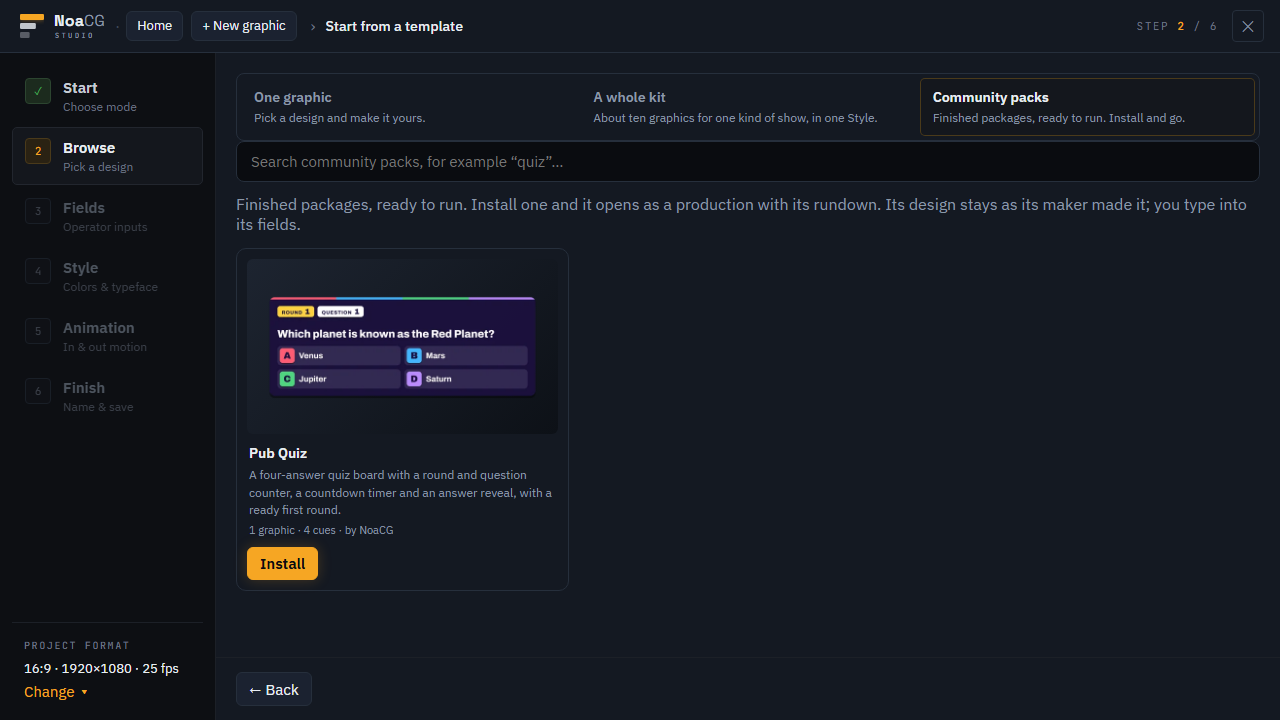
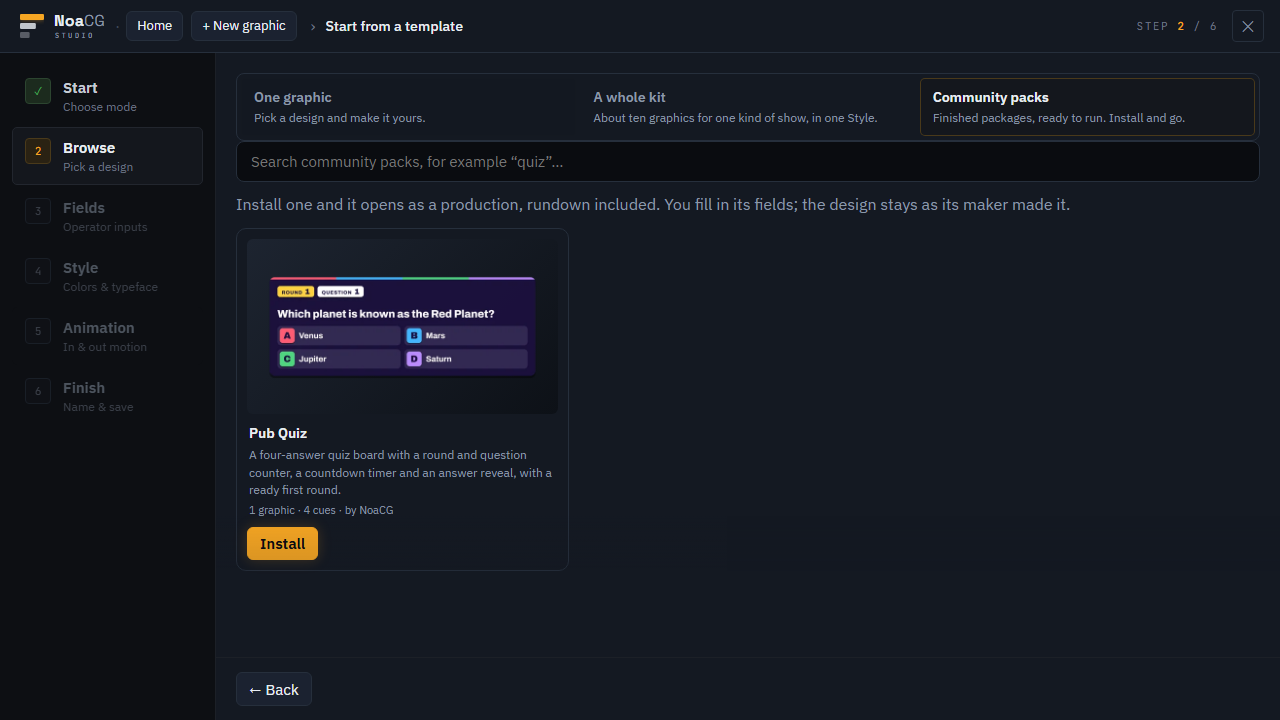
Tighten the Community packs shelf after review
On the shelf the rail's format read-back and the live preview pane now
stand down, since a pack carries its own frame and is not the design
picked earlier. An empty shelf says so instead of reporting a search
miss, and the shelf index is read once per page with a plain-language
failure message.

The pack builder now refuses a font reference that is neither in the
graphic's fonts/ folder nor a bundled face, checks the shelf's author
and preview rules before writing, and regenerates the community output
folder so a removed pack leaves no served file. Each manifest is read
once.

The wizard contract rule for Browse's top control now names the third
answer and what stands down on the shelf.

diff --git a/src/components/wizard/steps/CommunityPacks.tsx b/src/components/wizard/steps/CommunityPacks.tsx
@@ -41,21 +41,33 @@ interface Props {
 
 const plural = (n: number, word: string) => `${n} ${word}${n === 1 ? '' : 's'}`;
 
+/** The shelf index, read once per page: switching Browse's answer back and forth remounts this
+ *  component, and the list is static for the life of the deployment. A failed read is not kept,
+ *  so the next visit tries again. */
+let shelfRead: Promise<CommunityPackEntry[]> | null = null;
+function readShelf(): Promise<CommunityPackEntry[]> {
+  shelfRead ??= fetch(`${SHELF}index.json`)
+    .then((res) => (res.ok ? (res.json() as Promise<{ packs?: CommunityPackEntry[] }>) : Promise.reject(new Error())))
+    .then((index) => index.packs ?? [])
+    .catch(() => {
+      shelfRead = null;
+      throw new Error('The community shelf could not be read. Check the connection and open it again.');
+    });
+  return shelfRead;
+}
+
 export default function CommunityPacks({ query, onClearQuery, onInstalled }: Props) {
   const [packs, setPacks] = useState<CommunityPackEntry[] | null>(null);
   const [loadError, setLoadError] = useState<string | null>(null);
   const [busy, setBusy] = useState<string | null>(null);
-  const [errors, setErrors] = useState<Record<string, string>>({});
+  // Install is single-flight (every button disables while one runs), so one refusal at a time.
+  const [refusal, setRefusal] = useState<{ id: string; message: string } | null>(null);
 
   useEffect(() => {
     let live = true;
-    fetch(`${SHELF}index.json`)
-      .then((res) => {
-        if (!res.ok) throw new Error(`The shelf could not be read (${res.status}).`);
-        return res.json() as Promise<{ packs?: CommunityPackEntry[] }>;
-      })
-      .then((index) => live && setPacks(index.packs ?? []))
-      .catch((error: unknown) => live && setLoadError(error instanceof Error ? error.message : String(error)));
+    readShelf()
+      .then((list) => live && setPacks(list))
+      .catch((error: Error) => live && setLoadError(error.message));
     return () => {
       live = false;
     };
@@ -72,11 +84,7 @@ export default function CommunityPacks({ query, onClearQuery, onInstalled }: Pro
 
   const install = async (entry: CommunityPackEntry) => {
     setBusy(entry.id);
-    setErrors((prev) => {
-      const next = { ...prev };
-      delete next[entry.id];
-      return next;
-    });
+    setRefusal(null);
     try {
       const res = await fetch(`${SHELF}${entry.file}`);
       if (!res.ok) throw new Error(`The pack could not be downloaded (${res.status}).`);
@@ -86,7 +94,7 @@ export default function CommunityPacks({ query, onClearQuery, onInstalled }: Pro
       trackEvent('activation', 'community-pack');
       onInstalled(show);
     } catch (error) {
-      setErrors((prev) => ({ ...prev, [entry.id]: error instanceof Error ? error.message : String(error) }));
+      setRefusal({ id: entry.id, message: error instanceof Error ? error.message : String(error) });
     } finally {
       setBusy(null);
     }
@@ -100,7 +108,8 @@ export default function CommunityPacks({ query, onClearQuery, onInstalled }: Pro
       </p>
       {loadError && <p className="wz-community-error" role="alert">{loadError}</p>}
       {!packs && !loadError && <p className="hint">Loading the shelf…</p>}
-      {packs && shown.length === 0 && (
+      {packs && packs.length === 0 && <p className="hint">No packs on the shelf yet.</p>}
+      {packs && packs.length > 0 && shown.length === 0 && (
         <div className="wz-browse-empty">
           <p className="hint">No pack matches “{query.trim()}”.</p>
           <button type="button" className="wz-filter" onClick={onClearQuery}>✕ Clear the search</button>
@@ -133,7 +142,7 @@ export default function CommunityPacks({ query, onClearQuery, onInstalled }: Pro
             >
               {busy === p.id ? 'Installing…' : 'Install'}
             </button>
-            {errors[p.id] && <p className="wz-community-error" role="alert">{errors[p.id]}</p>}
+            {refusal?.id === p.id && <p className="wz-community-error" role="alert">{refusal.message}</p>}
           </li>
         ))}
       </ul>

diff --git a/src/components/wizard/steps/BrowseStep.tsx b/src/components/wizard/steps/BrowseStep.tsx
@@ -79,6 +79,19 @@ interface Props {
  *  Templates, Kits, Community packs - docs/work-specs/community-packs/spec.md). */
 export type BuildMode = 'one' | 'kit' | 'community';
 
+/** What the one search box above the branch searches, said per answer. */
+const SEARCH_COPY: Record<BuildMode, { placeholder: string; label: string }> = {
+  one: {
+    placeholder: 'Search all templates, for example “name graphic”, “countdown”, “church verse”…',
+    label: 'Search templates',
+  },
+  kit: {
+    placeholder: 'Search kits and graphics, for example “church”, “esports”, “ticker”…',
+    label: 'Search kits and graphics',
+  },
+  community: { placeholder: 'Search community packs, for example “quiz”…', label: 'Search community packs' },
+};
+
 type SortMode = 'relevance' | 'simplest' | 'name' | 'name-desc';
 
 /**
@@ -514,18 +527,10 @@ export default function BrowseStep({
       <input
         className="wz-browse-search"
         type="search"
-        placeholder={
-          buildMode === 'kit'
-            ? 'Search kits and graphics, for example “church”, “esports”, “ticker”…'
-            : buildMode === 'community'
-            ? 'Search community packs, for example “quiz”…'
-            : 'Search all templates, for example “name graphic”, “countdown”, “church verse”…'
-        }
+        placeholder={SEARCH_COPY[buildMode].placeholder}
         value={filters.query}
         onChange={(e) => set({ query: e.target.value })}
-        aria-label={
-          buildMode === 'kit' ? 'Search kits and graphics' : buildMode === 'community' ? 'Search community packs' : 'Search templates'
-        }
+        aria-label={SEARCH_COPY[buildMode].label}
       />
 
       {/* Project format - the graphic's own frame, NOT a facet: nothing here narrows the

diff --git a/src/components/wizard/CreationWizard.tsx b/src/components/wizard/CreationWizard.tsx
@@ -1470,7 +1470,7 @@ export default function CreationWizard() {
     // A dropped template is previewed as itself: it is the graphic, already finished.
     : mode === 'file' ? step >= 1 && !!importedFile
     : mode === 'template' ? (kit ? step >= 2 && step < finishStep : step >= 1) && !!previewTemplate
-    : step >= 2 && !!previewTemplate) && !(isMobile && step === finishStep);
+    : step >= 2 && !!previewTemplate) && !(isMobile && step === finishStep) && !onShelf;
   const stepSubs = mode === 'template' && (kit || buildMode === 'kit') ? STEP_SUBS_KIT : STEP_SUBS[mode];
   // Rail position → step index (1:1 in every mode).
   const stepIndexes = stepTitles.map((_, i) => i);
@@ -1779,12 +1779,13 @@ export default function CreationWizard() {
             {/* The authored frame, read back where it stays visible for the whole walk. The
                 CONTROL itself stays in the step that owns it (the Browse step's picker, the
                 AI step's own): one control, one home; this is the reminder plus
-                the way back to it. */}
-            <div className="wz-rail-foot">
+                the way back to it. A community pack carries its own frame, so on the shelf
+                there is nothing to read back and no picker to go back to. */}
+            {!onShelf && <div className="wz-rail-foot">
               <p className="dlg-caption">Project format</p>
               <p className="wz-rail-format">{formatSummary}</p>
               <button className="wz-rail-change" onClick={revealFormatPicker}>Change ▾</button>
-            </div>
+            </div>}
           </nav>}
 
           <div className="wz-main">

diff --git a/src/components/wizard/AGENTS.md b/src/components/wizard/AGENTS.md
@@ -7,7 +7,7 @@ Compiled from `contracts/rules`. Change a rule there (`npm run learn -- ...`), n
 - **invariant** `wizard/ask-pro-tier-thing-which-graphic`: Ask the Pro tier ONE thing: which graphic types the design language is rendered as, every box ticked by default and the LAST tick not removable. The first member in package order is the PRIMARY - previewed, refined, and the one the single-graphic ending handles. Compose members the moment the result lands, each through the same gate the primary took, and DROP and NAME one the gate refuses rather than shipping it.
 - **invariant** `wizard/build-whole-kit-moment-kit-step`: Build the whole kit the moment the Kit step's Next is taken and land on the kit's Finish step as its HUB, where every graphic opens for editing in any order. `KitPlan` keeps one draft per graphic so leaving one and coming back is lossless, the tray's chips are navigation that open another graphic on the same step, there is no look question, and both hub doors SAVE FIRST with every write claimed.
 - **invariant** `wizard/embed-every-font-source-fontpicker-offers`: EMBED every font source the FontPicker offers, so playout never depends on the machine fonts and the emitted code never references Google. Local Font Access stays Chromium-only and permission-gated.
-- **invariant** `wizard/give-kit-door-top-browse-swaps`: Give the kit ONE door, at the top of Browse: `.wz-buildmode` swaps the step body between the design grid and KitPicker. A KIT SHOWS ITS CONTENTS - every row is a card with a settled MiniPreview of the real design, its name and its graphic type, with the checkbox still carrying `data-kit-item`.
+- **invariant** `wizard/give-kit-community-packs-shelf-door`: Give the kit and the Community packs shelf ONE door each, at the top of Browse: `.wz-buildmode` swaps the step body between the design grid, KitPicker and CommunityPacks. A KIT SHOWS ITS CONTENTS - every row is a card with a settled MiniPreview of the real design, its name and its graphic type, with the checkbox still carrying `data-kit-item`. On the shelf, Install on a card is the only action: Next, Skip to finish, the brand chooser, the format picker and the rail's format read-back stand down.
 - **invariant** `wizard/hold-user-key-only-unsaved-password`: Hold a user AI key only in the unsaved password-field state and submit it to the credentials endpoint. Never pass a key through the settings object, browser storage, query parameters, telemetry, logs or rendered error detail. Model lists are provider-scoped suggestions, not an application-wide allowlist.
 - **invariant** `wizard/hold-whole-import-graphic-capability-inside`: Hold the whole Import-graphic capability inside `wizard/import/` - the five steps, `DesignPrepCanvas`, `fieldAutoMap`, its CSS and its draft slice - with `import/index.ts` as the ONLY door into it. `.dependency-cruiser.cjs` refuses a deep import from outside, `draft.ts` re-exports the slice through that index, and the import specs' own `// covers:` headers map the folder to them.
 - **invariant** `wizard/keep-finish-wizard-branch-carrying-graphic`: Keep Finish the wizard ONE branch, carrying the graphic name from `draft.name` applied inside `buildDraftTemplate` so it reaches the topbar, the Save prefill and the export slug through one path. Blank falls back to the design catalog name. That name slugs the zip and, for the SPX and CasparCG targets, the template FOLDER inside it.

diff --git a/src/templates/AGENTS.md b/src/templates/AGENTS.md
@@ -7,7 +7,7 @@ Compiled from `contracts/rules`. Change a rule there (`npm run learn -- ...`), n
 - **invariant** `root/make-every-state-enterable-two-ways`: Make every state enterable two ways - by transition, animated, or by SNAP, instant, for recovery and preview without playback - and keep reset TWO operations that are never conflated: reset visual state, and reset data. Process events SERIALLY through one queue that lives INSIDE the template.
 - **invariant** `root/map-each-spx-field-element-writes`: Map each SPX field `fN` to ONE element `id="fN"` that `update()` writes into by id. Use no hidden `.spx-data` holders and no `_gfx` display split - that older premium-pack style is documented but is not what this project generates.
 - **invariant** `root/never-let-data-update-cause-transition`: Never let a data update cause a transition: `update()` writes fields, and state changes come only from events or timers. Parameterize with DATA rather than with states - one Selected state plus a field, never four near-identical states. The default path is the ordered walk `next` follows, and `steps[i]` IS that path positionally.
-- **invariant** `wizard/give-kit-door-top-browse-swaps`: Give the kit ONE door, at the top of Browse: `.wz-buildmode` swaps the step body between the design grid and KitPicker. A KIT SHOWS ITS CONTENTS - every row is a card with a settled MiniPreview of the real design, its name and its graphic type, with the checkbox still carrying `data-kit-item`.
+- **invariant** `wizard/give-kit-community-packs-shelf-door`: Give the kit and the Community packs shelf ONE door each, at the top of Browse: `.wz-buildmode` swaps the step body between the design grid, KitPicker and CommunityPacks. A KIT SHOWS ITS CONTENTS - every row is a card with a settled MiniPreview of the real design, its name and its graphic type, with the checkbox still carrying `data-kit-item`. On the shelf, Install on a card is the only action: Next, Skip to finish, the brand chooser, the format picker and the rail's format read-back stand down.
 - **invariant** `wizard/keep-graphic-type-setup-values-derived`: Keep a graphic type setup values DERIVED, never declared twice: `setupFields` drops every field an operator event carries as its PAYLOAD, because in this model a pick IS payload, EXCEPT a field a DEFAULT-PATH event carries, which Continue reaches with no control page and so must hold a real value at build. Image fields stay out because their value is an asset path. A design with none shows no section at all.
 - **trap** `behaviours/value-write-rule-paints-field-lands`: A value a write rule paints is NOT a field: it lands in textContent on a stamped artwork layer, while every derivation reads a field through getElementById(fN). A second lookup therefore cannot read what a first one wrote, and a write whose value is empty is skipped, so a Reset cannot clear what it filled. Chain a derivation only through a real field the operator owns.
 - **trap** `templates/add-imports-sanctioned-animation-data-importer`: Do not add imports from `src/blocks/**` to `src/templates/**`; the sanctioned animation-data and importer seam is not permission for more upward dependencies. Copy a small reusable helper locally when necessary, and inspect new imports first when wizard or AI suites time out wholesale without a console error.

diff --git a/contracts/index.md b/contracts/index.md
@@ -443,7 +443,8 @@ contracts nothing; `npm run rules -- <path>` lists what applies to a file.
 | `wizard/follow-wizard-setup-flow-section-docs` | trap | contract | retired | `src/components/wizard/import/**`, `docs/SVG_IMPORT_PLAN.md` | Do not follow the "The wizard is a SETUP flow" section of docs/SVG_IMPORT_PLAN.md. |
 | `wizard/gate-every-kit-preview-intersection-give` | trap | contract | active | `src/components/wizard/KitTray.tsx`, `src/components/wizard/steps/BrowseStep.tsx` | Gate every kit preview on intersection, and give `.wz-kit-thumb` `pointer-events: none` so clicking the picture of the graphic you want toggles it. |
 | `wizard/give-every-wizard-step-own-history` | invariant | contract | active | `src/components/wizard/CreationWizard.tsx`, `src/app/router.ts` | Give every wizard step its own history entry at `#/new/step/<name>`, NAMED and never indexed, because import mode adds a step that shifts every later index. |
-| `wizard/give-kit-door-top-browse-swaps` | invariant | contract | active | `src/components/wizard/steps/BrowseStep.tsx`, `src/components/wizard/KitTray.tsx`, `src/templates/kit.ts` | Give the kit ONE door, at the top of Browse: `.wz-buildmode` swaps the step body between the design grid and KitPicker. |
+| `wizard/give-kit-community-packs-shelf-door` | invariant | contract | active | `src/components/wizard/steps/BrowseStep.tsx`, `src/components/wizard/steps/CommunityPacks.tsx`, `src/components/wizard/KitTray.tsx`, `src/templates/kit.ts` | Give the kit and the Community packs shelf ONE door each, at the top of Browse: `.wz-buildmode` swaps the step body between the design grid, KitPicker and CommunityPacks. |
+| `wizard/give-kit-door-top-browse-swaps` | invariant | contract | retired | `src/components/wizard/steps/BrowseStep.tsx`, `src/components/wizard/KitTray.tsx`, `src/templates/kit.ts` | Give the kit ONE door, at the top of Browse: `.wz-buildmode` swaps the step body between the design grid and KitPicker. |
 | `wizard/give-only-step-whose-left-pane` | trap | contract | active | `src/components/wizard/CreationWizard.tsx`, `src/components/wizard/import/**` | Give `.wz-body-working` only to a step whose left pane is a CANVAS. |
 | `wizard/give-section-line-info-button-rest` | rule | contract | active | `src/components/wizard/SectionHead.tsx` | Give a section ONE line and an info button for the rest: title, one muted line, and an info holding what it does AND why it exists. |
 | `wizard/handle-pro-finding-step-cannot-repair` | rule | contract | active | `src/components/wizard/steps/ai/**` | Handle a Pro finding the step cannot repair by clamping categories to the supported set, demoting spec-field findings to warnings against a fixed contract with no repair loop, and standing refine and fix down, because regenerating is the honest move. |

diff --git a/docs/work-specs/community-packs/evidence/slice-1.md b/docs/work-specs/community-packs/evidence/slice-1.md
@@ -15,6 +15,8 @@ judges it.
 - `node scripts/build-production-pack.mjs` emits `public/packs/community/pub-quiz.noacgpack.json`
   (1 graphic, 4 cues), `pub-quiz.webp` and `index.json`; `fight-night.noacgpack.json` is
   byte-unchanged by the builder refactor.
+- A third line in the same copy, `url("fonts/missing.woff2")`, is refused as "neither in the
+  graphic's fonts/ folder nor a bundled face".
 - Refusal check: a copy of the source with `var f = (a) => a;` appended to `logic.js` and a
   `url("https://fonts.example.com/x.png")` appended to `style.css` makes the builder exit 1 naming
   both ("template JS carries an arrow function", "a url() reference outside the bundled fonts/
@@ -22,7 +24,8 @@ judges it.
 
 ## AC-1 to AC-3: the shelf and Install
 
-`npx playwright test e2e/community-packs.spec.ts --workers 1` (job j-2884): 2 passed.
+`npx playwright test e2e/community-packs.spec.ts --workers 1` (jobs j-2884 and, on the final
+code after the review fixes, j-2895): 2 passed.
 
 - Browse's control reads One graphic / A whole kit / Community packs; picking the third shows
   the shelf; no Next and no Skip to finish while it shows.
@@ -40,5 +43,8 @@ in this folder.
 
 - AC-5 to AC-9 are not built (the next slice: `docs/backlog/community-packs-share-review-and-lock.md`).
 - The rail still lists the one-graphic steps (Fields to Finish, greyed and not reachable) while
-  the shelf shows.
+  the shelf shows, and the header still counts "Step 2 / 6". The rail's format read-back and the
+  live preview pane stand down on the shelf.
+- A failure inside `installPack` after the production was saved leaves that production and lets
+  Install run again (the same behaviour as Home's Import a package).
 - The preview is a still frame, not a live render.

diff --git a/.claude/rules/src-components-wizard-kittray-b56w.md b/.claude/rules/src-components-wizard-kittray-b56w.md
@@ -1,0 +1,10 @@
+---
+paths:
+  - "src/components/wizard/KitTray.tsx"
+  - "src/components/wizard/steps/BrowseStep.tsx"
+  - "src/components/wizard/steps/CommunityPacks.tsx"
+  - "src/templates/kit.ts"
+---
+<!-- GENERATED by scripts/compile-contracts.mjs from contracts/rules. Edit the rule files, then run npm run contracts:compile. -->
+
+- **invariant** `wizard/give-kit-community-packs-shelf-door`: Give the kit and the Community packs shelf ONE door each, at the top of Browse: `.wz-buildmode` swaps the step body between the design grid, KitPicker and CommunityPacks. A KIT SHOWS ITS CONTENTS - every row is a card with a settled MiniPreview of the real design, its name and its graphic type, with the checkbox still carrying `data-kit-item`. On the shelf, Install on a card is the only action: Next, Skip to finish, the brand chooser, the format picker and the rail's format read-back stand down.

diff --git a/contracts/rules/wizard/give-kit-community-packs-shelf-door.md b/contracts/rules/wizard/give-kit-community-packs-shelf-door.md
@@ -1,0 +1,11 @@
+---
+v: 1
+scope: src/components/wizard/steps/BrowseStep.tsx, src/components/wizard/steps/CommunityPacks.tsx, src/components/wizard/KitTray.tsx, src/templates/kit.ts
+kind: invariant
+fires: contract
+status: active
+since: 2026-10-02
+supersedes: wizard/give-kit-door-top-browse-swaps
+record: contracts/records/wizard/2026-10-02-give-kit-community-packs-shelf-door.md
+---
+Give the kit and the Community packs shelf ONE door each, at the top of Browse: `.wz-buildmode` swaps the step body between the design grid, KitPicker and CommunityPacks. A KIT SHOWS ITS CONTENTS - every row is a card with a settled MiniPreview of the real design, its name and its graphic type, with the checkbox still carrying `data-kit-item`. On the shelf, Install on a card is the only action: Next, Skip to finish, the brand chooser, the format picker and the rail's format read-back stand down.

diff --git a/contracts/records/wizard/2026-10-02-give-kit-community-packs-shelf-door.md b/contracts/records/wizard/2026-10-02-give-kit-community-packs-shelf-door.md
@@ -1,0 +1,7 @@
+# wizard/give-kit-community-packs-shelf-door
+
+Rule: `wizard/give-kit-community-packs-shelf-door`. Recorded 2026-10-02 on `claude/bv-community-packs` at 612b208b6.
+
+Owner ruling: the template workflow has three categories, Templates, Kits and Community packs. Browse's control gained Community packs as its third option on claude/bv-community-packs (docs/work-specs/community-packs/spec.md AC-1).
+
+Why a rule rather than a fix, a mechanism or a check: The behaviour is pinned by e2e/community-packs.spec.ts, but the old rule names only two bodies and would mislead an editor of the switch; this restates it with the third answer the owner ruled on.

diff --git a/contracts/rules/wizard/give-kit-door-top-browse-swaps.md b/contracts/rules/wizard/give-kit-door-top-browse-swaps.md
@@ -3,7 +3,7 @@ v: 1
 scope: src/components/wizard/steps/BrowseStep.tsx, src/components/wizard/KitTray.tsx, src/templates/kit.ts
 kind: invariant
 fires: contract
-status: active
+status: retired
 since: 2026-09-07
 record: contracts/records/wizard/2026-09-07-give-kit-door-top-browse-swaps.md
 ---
